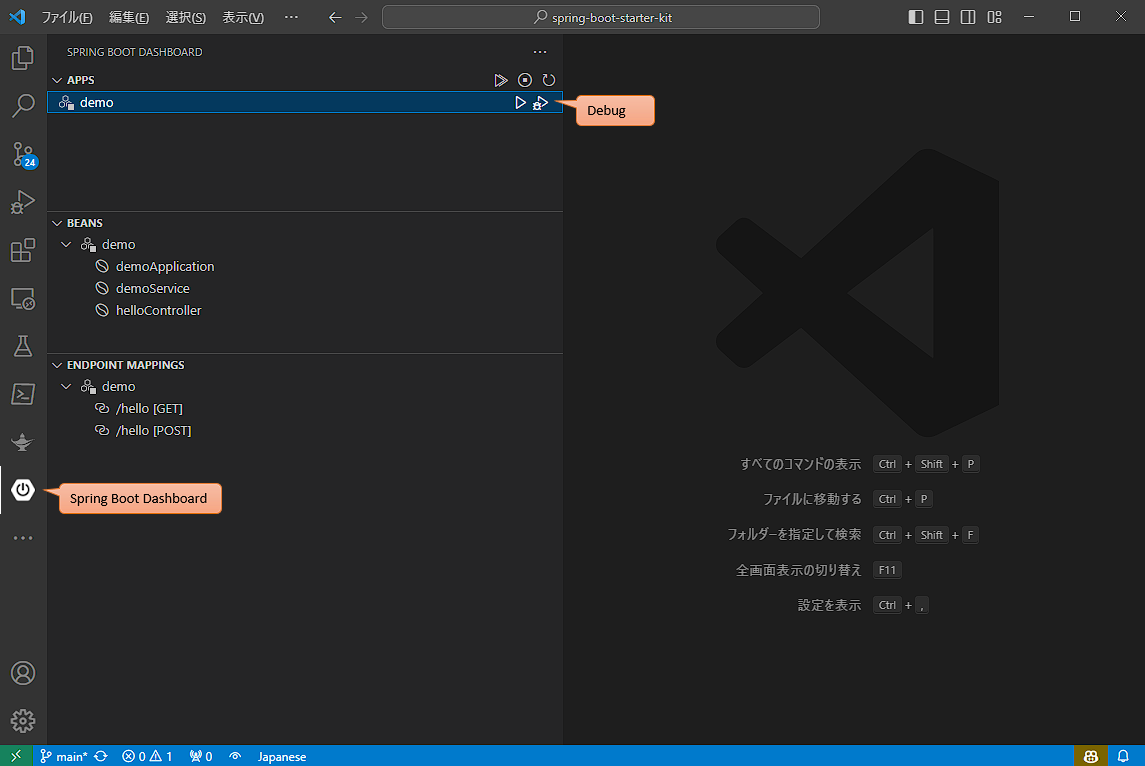
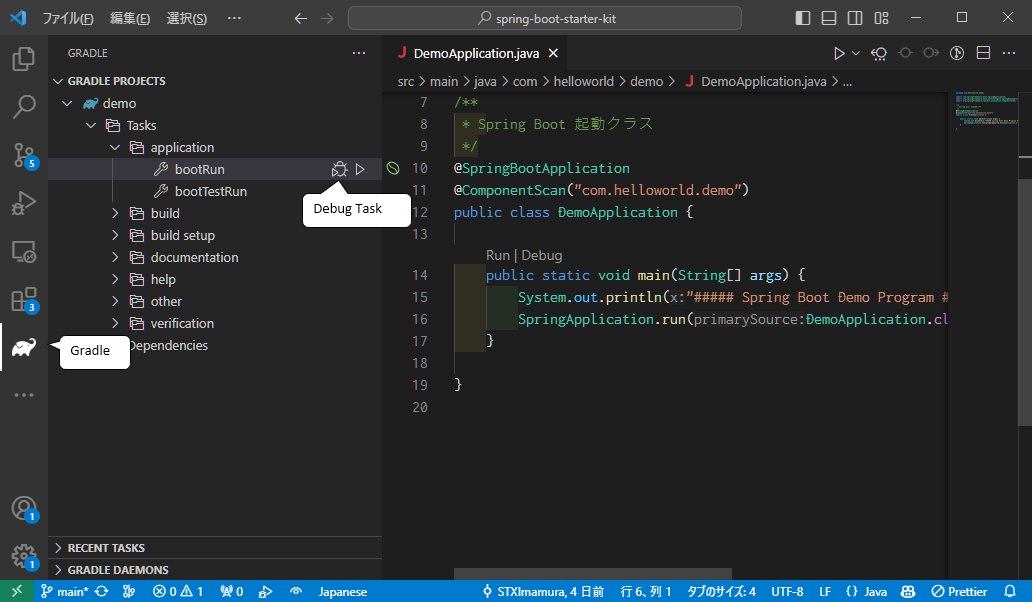
TypeScript対応

diff --git a/src/main/resources/templates/hello.html b/src/main/resources/templates/hello.html
@@ -74,9 +74,7 @@
 <script lang="javascript">
     // メッセージをHello Worldにリセットする
     window.onload = function() {
-        document.getElementById("reset").addEventListener("click", function() {
-            document.getElementById("message").value = "Hello World";
-        });
+        init();
     }
 </script>
 
@@ -89,5 +87,7 @@
             <button id="reset"  type="button" class="cancel-button">Reset</button>
         </div>
     </form>
+
+    <script src="/js/hello.js"></script>
 </body>
 </html>

diff --git a/src/main/ts/hello.ts b/src/main/ts/hello.ts
@@ -1,0 +1,8 @@
+function init() {
+    document.getElementById("reset")!.addEventListener("click", () => {
+        // elementの型を特定する必要がある
+        const element = document.getElementById("message")! as HTMLInputElement;
+        // HTMLInputElementじゃないとvalueがない
+        element.value = "Hello World!";
+    });
+}

diff --git a/src/main/java/com/helloworld/demo/controller/HelloController.java b/src/main/java/com/helloworld/demo/controller/HelloController.java
@@ -24,8 +24,6 @@ public class HelloController {
   @GetMapping(value = "/hello")
   public String get(DemoForm form, Model model) throws Exception {
 
-    System.out.println("debug");
-
     Demo demo = demoService.get(1);
 
     model.addAttribute("message", demo.getMsg());

diff --git a/README.md b/README.md
@@ -6,6 +6,7 @@
 - spring boot 
 - データベース(SQLiteを使用、サーバーレスのデータベースエンジン)
 - テンプレートエンジン(thymeleaf)
+- TypeScript
 - 単体テスト
 - もちろんHTML、CSS、JavaScriptも
 
@@ -15,6 +16,9 @@
 - [VSCode拡張機能](#vscode)
 - [実行方法](#howtorun)
 - [確認方法](#confirm)
+- [単体テスト](#test)
+- [ディレクトリ構成について](#dir)
+- [TODO](#todo)
 
 
 ## インストール <a name="install"></a>
@@ -34,6 +38,14 @@
     開発者にとって効率的なコーディング環境を提供するため、幅広いプログラミング言語やプロジェクトの開発に利用されています。
 
     https://code.visualstudio.com/download
+
+- npm
+
+    JavaScriptベースのプロジェクトで使用されるパッケージ管理システムです。npmを使用することで、他の開発者が共有しているJavaScriptライブラリやツールをプロジェクトに追加することができます。
+
+    https://nodejs.org/en/download
+
+    ※ 64bit版 Windows Installerを選択
 
 - A5:SQL Mk-2
     A5:SQL Mk-2は複雑化するデータベース開発を支援するために開発されたフリーのSQLクライアントです。  
@@ -78,22 +90,40 @@
 
 ## 実行方法  <a name="howtorun"></a>
 
-アクティビティサイドバーのSpring Boot Dashboardを選択してサイドバーを切り替えます。  
-切り替えたらAPPS > demo からDebugボタンで実行できます。
+アクティビティサイドバーGradleを選択してサイドバーを切り替えます。  
+切り替えたらdemo > Tasks > application > bootRun から DebugTask を実行します。
 
 ![実行方法](images/springboot_debug.png)
-
 
 ## 確認方法  <a name="confirm"></a>
 
 ブラウザで http://localhost:8080/hello を開いて、「Hello World!」と表示されれば成功です。
 
-## 単体テスト
+## 単体テスト <a name="test"></a>
 
 単体テストは、テストクラスを開いてチェックアイコンをクリックするか、右クリックから「テストを実行する」を選択して実行できます。
 
 ![単体テスト](images/springboot_test.png)
 
-## その他
+## ディレクトリ構成について <a name="dir"></a>
 
-このプロジェクトはEclipseからも開けるようになっています。
+| ディレクトリ             | 説明                             |
+|--------------------------|----------------------------------|
+| build                    | src配下のbuild結果を格納する場所 |
+| src                      | ルート                           |
+| src/main                 | 各種ソースの格納先               |
+| src/main/java            | Javaソースコード                 |
+| src/main/resources       | 様々なリソースを置く場所         |
+| src/main/resources/static| 静的コンテンツ<br/> 画像ファイル/CSS/JavaScriptなどはここに配置します。  |
+| src/main/resources/templates| thymeleafのテンプレート       |
+| src/ts                   | TypeScriptのソースコード<br/>BuildするとJavaScriptにコンパイルされ、staticディレクトリに配置されます。 |
+| src/test                 | テストコードの格納先             |
+
+## TODO <a name="todo"></a>
+
+このあたりも対応したいですね。
+
+[ ] sass対応
+[ ] vue対応
+[ ] gulp対応
+[ ] TypeScriptの単体テスト
